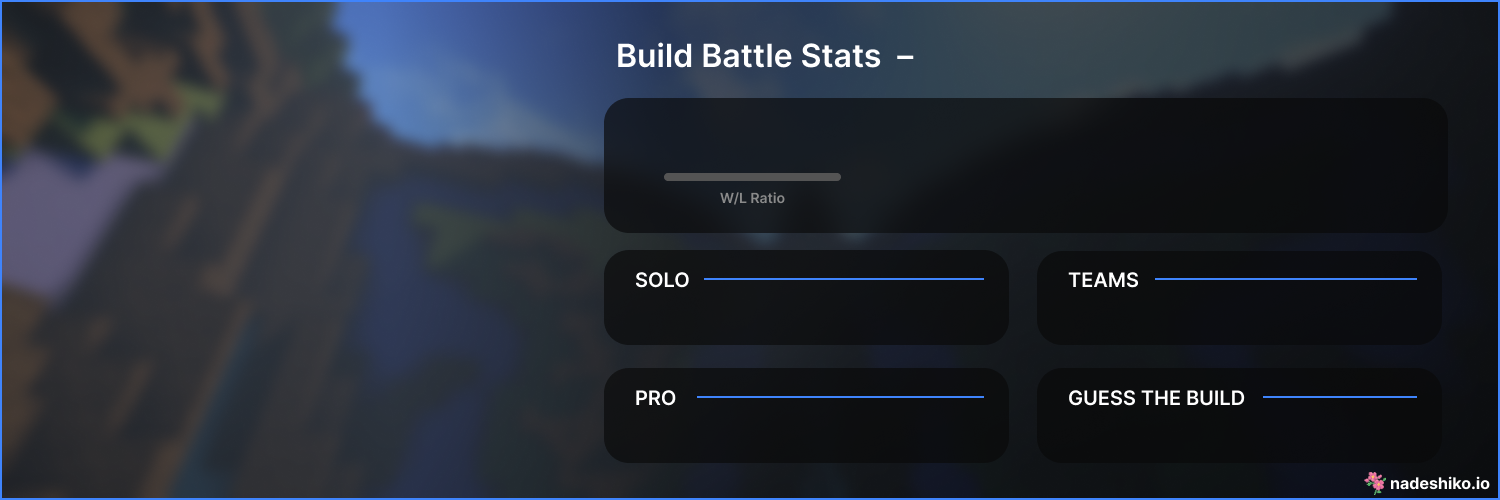
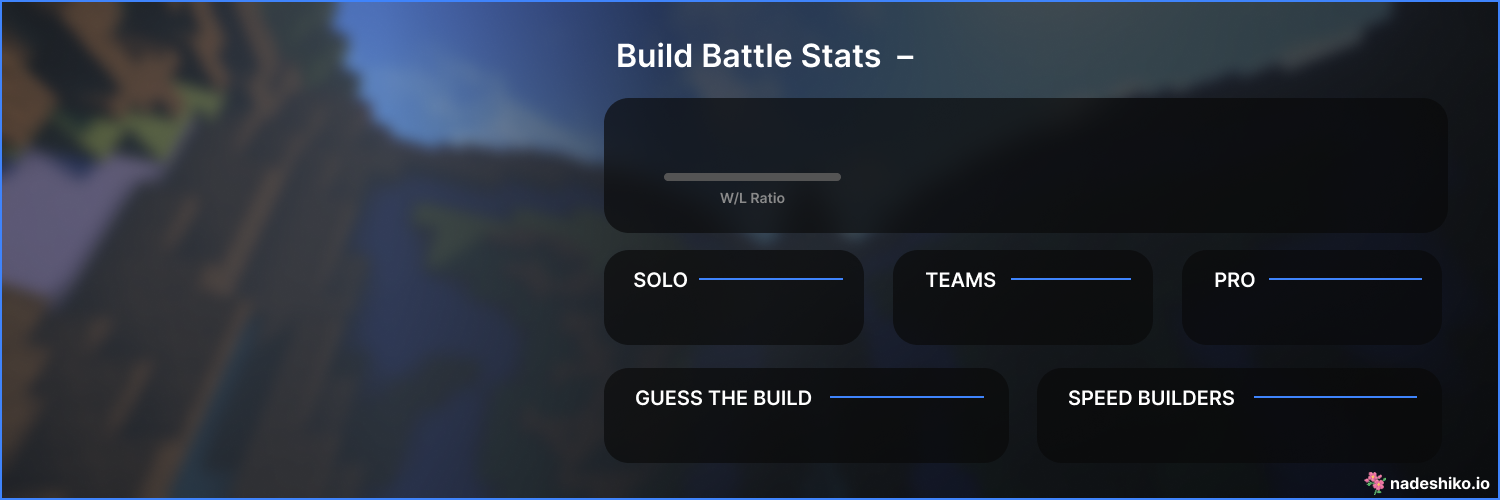
[1.1.5] Added Speed Builders stats to Build Battle card

diff --git a/src/main/java/io/nadeshiko/nadeshiko/cards/provider/impl/BuildBattleCardProvider.java b/src/main/java/io/nadeshiko/nadeshiko/cards/provider/impl/BuildBattleCardProvider.java
@@ -86,9 +86,10 @@ public class BuildBattleCardProvider extends CardProvider {
 
 		// Draw top modes
 		this.drawMode(g, Mode.SOLO, buildBattle, 635, 318);
-		this.drawMode(g, Mode.TEAM, buildBattle, 1068, 318);
-		this.drawMode(g, Mode.PRO, buildBattle, 635, 438);
-		this.drawMode(g, Mode.GTB, buildBattle, 1068, 438);
+		this.drawMode(g, Mode.TEAM, buildBattle, 923, 318);
+		this.drawMode(g, Mode.PRO, buildBattle, 1212, 318);
+		this.drawMode(g, Mode.GTB, buildBattle, 635, 438);
+		this.drawMode(g, Mode.SPEED_BUILDERS, buildBattle, 1068, 438);
 	}
 
 	private void drawMode(Graphics2D g, @NonNull Mode mode, @NonNull JsonObject stats, int baseX, int baseY) {
@@ -120,7 +121,8 @@ public class BuildBattleCardProvider extends CardProvider {
 		SOLO("solo_normal", "Solo"),
 		TEAM("teams_normal", "Teams"),
 		PRO("solo_pro", "Pro"),
-		GTB("guess_the_build", "Guess The Build");
+		GTB("guess_the_build", "Guess The Build"),
+		SPEED_BUILDERS("speed_builders", "Speed Builders");
 
 		private final String apiName;
 		private final String displayName;

diff --git a/src/main/java/io/nadeshiko/nadeshiko/Nadeshiko.java b/src/main/java/io/nadeshiko/nadeshiko/Nadeshiko.java
@@ -49,7 +49,7 @@ public class Nadeshiko {
 	/**
 	 * nadeshiko version number
 	 */
-	public static String VERSION = "1.1.4-no-skyblock";
+	public static String VERSION = "1.1.5-no-skyblock";
 
 	/**
 	 * Setting fallbacks (if missing from config.json)
